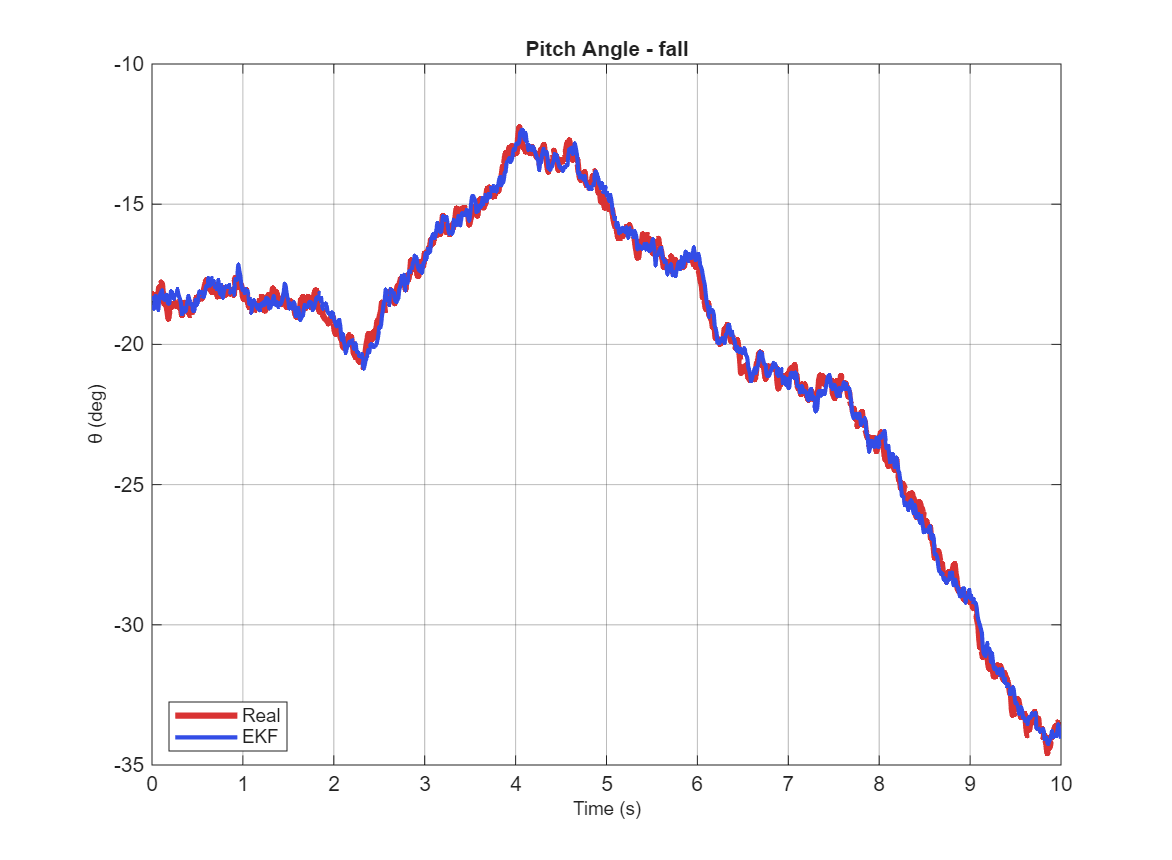
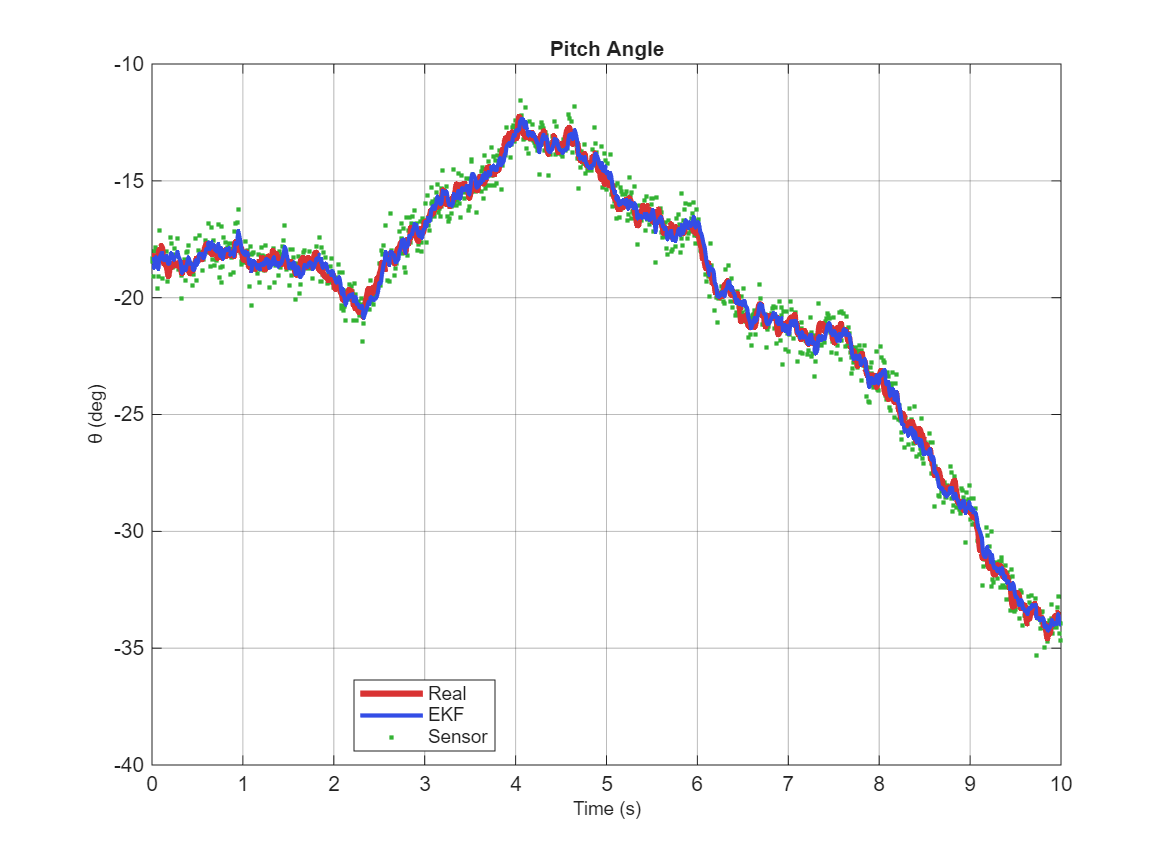
Added noisy measurements to state plots

diff --git a/plot_quadrotor_separate_windows.m b/plot_quadrotor_separate_windows.m
@@ -113,7 +113,7 @@ blue_lw = 2.0;
 red_lw = 3.0;
 
 for idx = 1:6
-    fig_state = figure('Name', sprintf('State Plot: %s (%s)', state_config{idx}{2}, case_name),...
+    fig_state = figure('Name', sprintf('State Plot: %s', state_config{idx}{2}),...
                        'NumberTitle','off',...
                        'Position',[50+idx*60, 50+idx*60, 750, 550],...  % Increased size
                        'Color','white');
@@ -123,25 +123,64 @@ for idx = 1:6
     grid(ax_state,'on');
     box(ax_state,'on');
     
+    % Unit conversion function
     if idx >= 5
         conv = @rad2deg;
     else
         conv = @(x)x;
     end
     
-    % Only plot Real and EKF Estimate (EXACT from original)
+    % --- Determine if this state has noisy sensor data ---
+    % Mapping based on simulation_quadrotor.m:
+    % State 3 (y)      <-- Output 1
+    % State 5 (theta)  <-- Output 2
+    % State 6 (dtheta) <-- Output 3
+    
+    has_sensor = false;
+    sensor_col = 0;
+    
+    if idx == 3
+        has_sensor = true;
+        sensor_col = 1;
+    elseif idx == 5
+        has_sensor = true;
+        sensor_col = 2;
+    elseif idx == 6
+        has_sensor = true;
+        sensor_col = 3;
+    end
+    
+    % --- Plotting ---
+    
+    % 1. Plot Sensor Data (if available) - plotted first (behind lines) or as scatter
+    h_sens = [];
+    if has_sensor
+        % Extract noisy sensor data column and convert units if necessary
+        sensor_vals = output_data.real(:, sensor_col);
+        h_sens = plot(ax_state, time, conv(sensor_vals), '.', ...
+            'Color', [0.2 0.7 0.2], 'MarkerSize', 6, 'DisplayName', 'Sensor');
+    end
+
+    % 2. Plot Real State
     h_real = plot(ax_state, time, conv(state_data.real(:,idx)), '-', ...
              'Color', [0.85 0.2 0.2], 'LineWidth', red_lw, 'DisplayName', 'Real');
     
+    % 3. Plot EKF Estimate
     h_ekf = plot(ax_state, time, conv(state_data.estimate(:,idx)), '-', ...
              'Color', [0.2 0.3 0.9], 'LineWidth', blue_lw, 'DisplayName', 'EKF');
     
     ylabel(ax_state, state_config{idx}{1}, 'FontSize', 9);
-    title(ax_state, sprintf('%s - %s', state_config{idx}{2}, case_name), 'FontWeight', 'bold', 'FontSize', 10);
+    title(ax_state, state_config{idx}{2}, 'FontWeight', 'bold', 'FontSize', 10);
     xlabel('Time (s)', 'FontSize', 9);
     
     set(ax_state,'GridAlpha',0.3);
-    legend([h_real, h_ekf], {'Real', 'EKF'}, 'Location', 'best', 'FontSize', 9);
+    
+    % Update Legend based on whether sensor data exists
+    if has_sensor
+        legend([h_real, h_ekf, h_sens], {'Real', 'EKF', 'Sensor'}, 'Location', 'best', 'FontSize', 9);
+    else
+        legend([h_real, h_ekf], {'Real', 'EKF'}, 'Location', 'best', 'FontSize', 9);
+    end
 
     % SAVE FIGURE
     saveas(fig_state, fullfile(report_dir, sprintf('state_%s-%s.png', state_filenames{idx}, case_name)));
